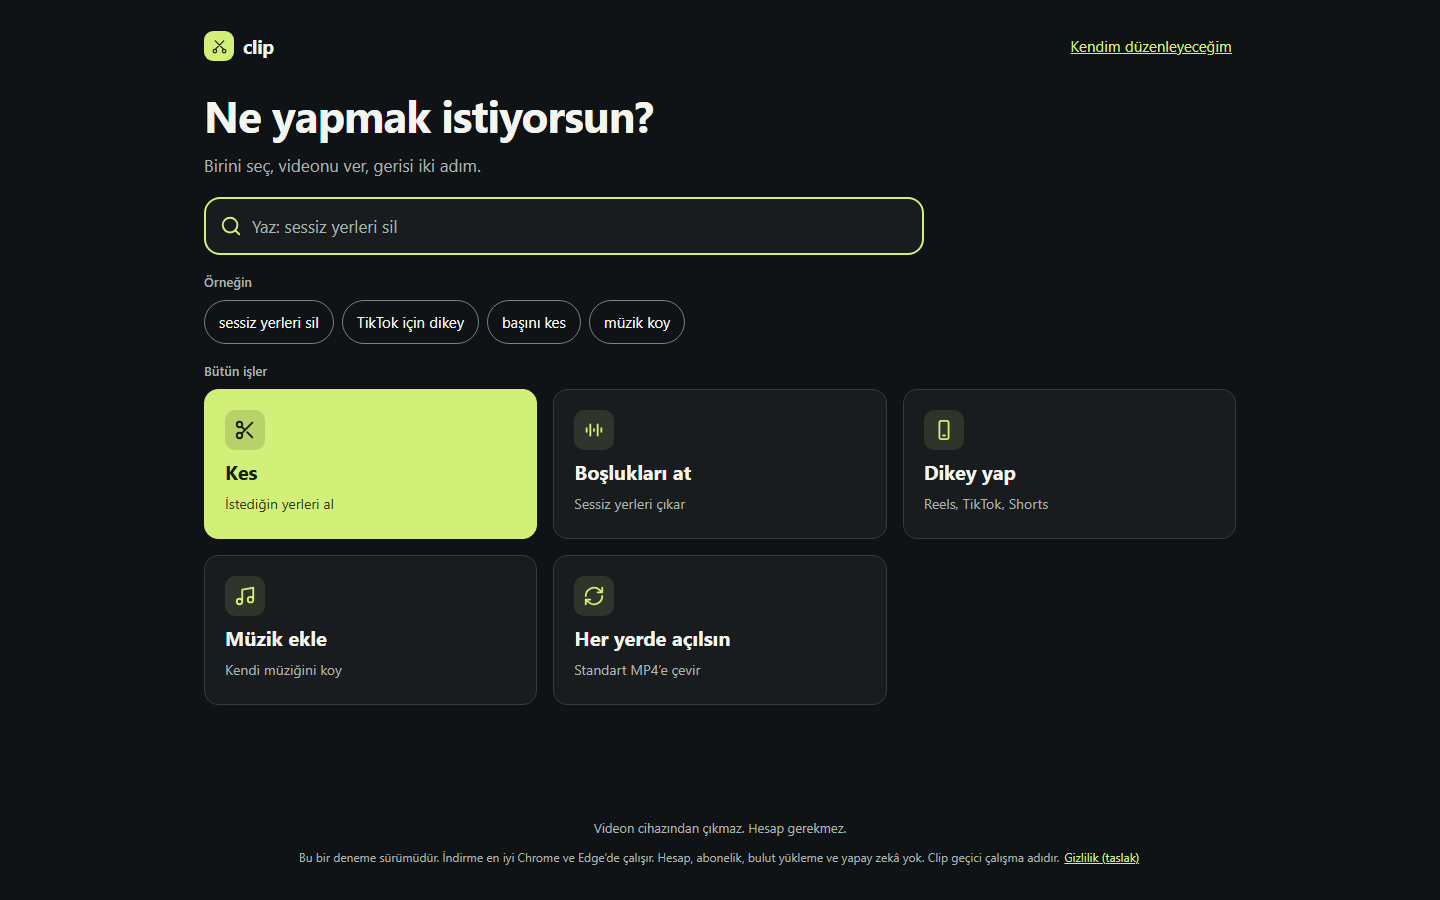
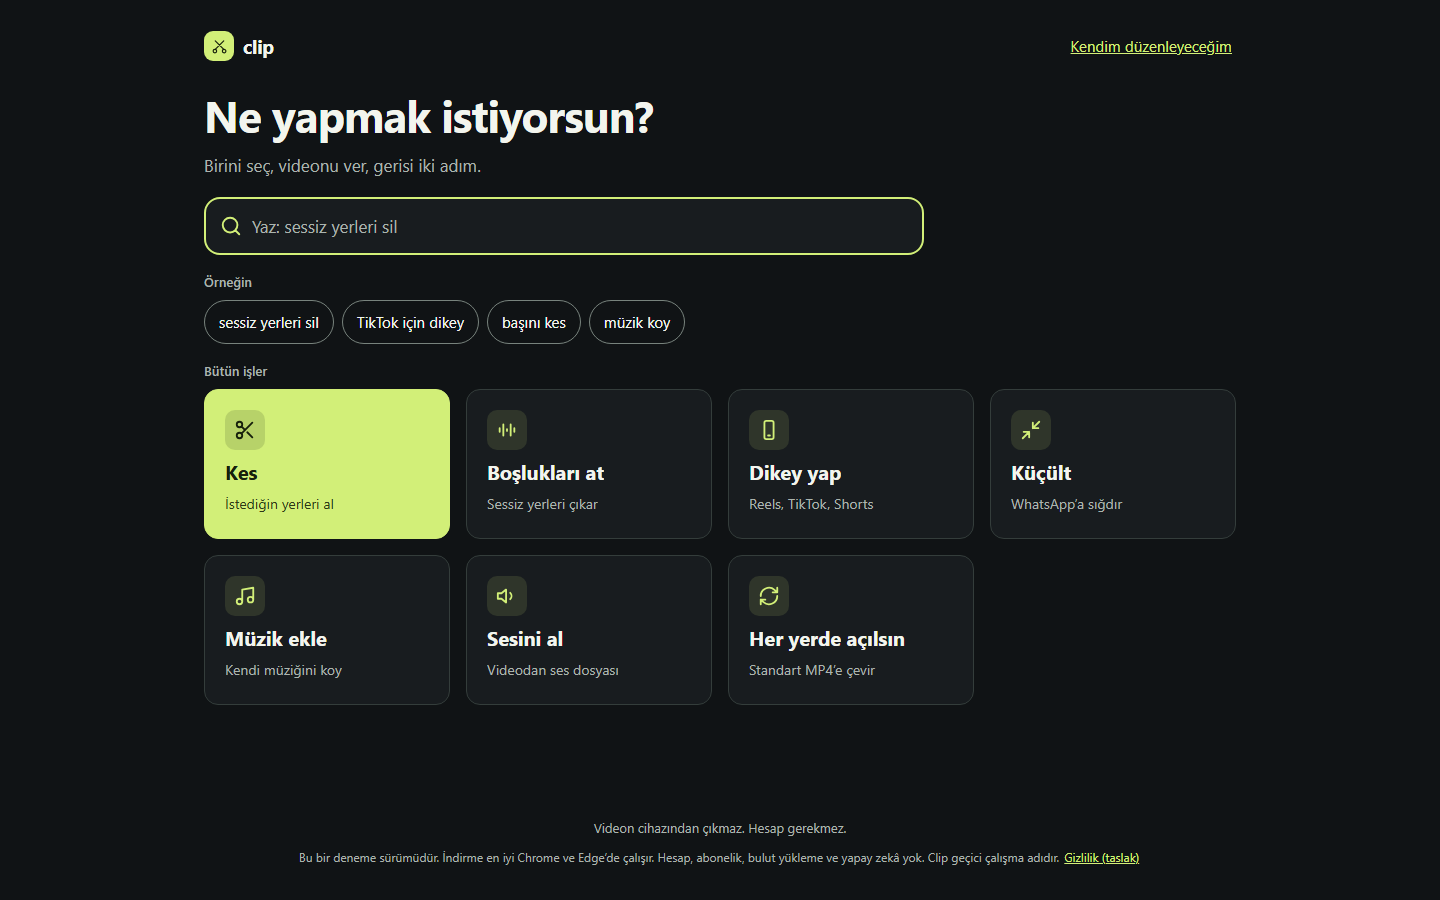
ADR-035 tamam: son derlemeyle tam e2e (243 geçti), matris 3 tarayıcıda 27/27, gerçek kayıtlar 15/15, Pages duman testi 4/4; Küçült ve Sesini al ekran görüntüleri (360/390/1440); destek matrisi, değişiklik kaydı; ağ ve çevrimdışı testlerinde iki yeni sihirbaz sayfası

Changed region(s): [[0.3125, 0.4044, 0.625, 0.7467], [0.625, 0.4356, 0.7812, 0.5911], [0.5, 0.4356, 0.5938, 0.5911]]

diff --git a/web/tests/pages/pages-smoke.spec.ts b/web/tests/pages/pages-smoke.spec.ts
@@ -293,7 +293,7 @@ test('installable and offline under /capcut/: manifest, service worker, offline 
     expect(paths).toContain(stored);
   }
   const allowed = [
-    /^\/capcut\/((editor|gizlilik|gizlilik\/en|yap\/(kes|bosluk|dikey|muzik|cevir))\/)?$/,
+    /^\/capcut\/((editor|gizlilik|gizlilik\/en|yap\/(kes|bosluk|dikey|kucult|muzik|ses|cevir))\/)?$/,
     /^\/capcut\/_next\/static\/.+\.(js|css|png|svg)$/,
     /^\/capcut\/fonts\/caption\/inter-latin(-ext)?-700-normal\.woff2$/,
     /^\/capcut\/icons\/(icon-192|icon-512|maskable-512)\.png$/,

diff --git a/web/tests/e2e/privacy.spec.ts b/web/tests/e2e/privacy.spec.ts
@@ -558,7 +558,7 @@ test.describe('nothing leaves the machine', () => {
       /^\/editor$/,
       /^\/gizlilik(\/en)?$/,
       // The task wizards (ADR-034): their pages, visited above and kept by the service worker.
-      /^\/yap\/(kes|bosluk|dikey|muzik|cevir)$/,
+      /^\/yap\/(kes|bosluk|dikey|kucult|muzik|ses|cevir)$/,
       /^\/_next\/static\//,
       /^\/fonts\/caption\/inter-latin(-ext)?-700-normal\.woff2$/,
       /^\/favicon\.ico$/,

diff --git a/web/tests/e2e/pwa.spec.ts b/web/tests/e2e/pwa.spec.ts
@@ -386,7 +386,7 @@ const APP_PATH = [
   /^\/editor$/,
   /^\/gizlilik(\/en)?$/,
   // The task wizards (ADR-034).
-  /^\/yap\/(kes|bosluk|dikey|muzik|cevir)$/,
+  /^\/yap\/(kes|bosluk|dikey|kucult|muzik|ses|cevir)$/,
   /^\/_next\/static\/[^?]+$/,
   /^\/fonts\/caption\/inter-latin(-ext)?-700-normal\.woff2$/,
   /^\/icons\/(icon-192|icon-512|maskable-512)\.png$/,

diff --git a/docs/adr/ADR-035-target-size-and-audio-only.md b/docs/adr/ADR-035-target-size-and-audio-only.md
@@ -397,22 +397,39 @@ betiğin açtığı sekmeler kapatıldı, site verisi (OPFS, IndexedDB, localSto
 
 ## Testler
 
-> **ARA KAYIT (4 Ekim 2026, oturum kapanırken):** bu bölüm henüz tamamlanmadı.
->
-> **Biten ölçümler (ölçüm kilidi altında, main birleştirildikten sonraki derlemeyle):** matris
-> Chromium 27/27 (son yazılım tabanlarıyla yeniden koşuldu), Chrome 27/27, Edge 27/27 (son iki
-> koşu yazılım tabanı ve ret başlığı değişikliğinden önceki derlemeyle; donanım yolunu etkilemez);
-> gerçek kayıtlar Chrome 15/15; hedef boyut tabloları Chrome, Edge (birleştirmeden önceki derleme,
-> aynı motor kodu) ve Chromium (son tabanlarla); yalnızca ses Chrome/Edge/Chromium; sabit bit hızı
-> ızgaraları; oynatma denetimi; telefon S–Z2 (ilk oturum).
-> Birim testleri: 731/731 (50 dosya), `tsc`, `eslint` temiz, `npm run build` geçti.
-> Yeni e2e dosyaları (`target-size.spec.ts`, `audio-only.spec.ts`): 9/9, ama **yazılım tabanı 0,07'ye
-> çekilmeden önceki** derlemeyle.
->
-> **Bitmeyen / yeniden koşulacak:** tam `npx playwright test` (E2E_PORT=3311) **hiç koşmadı** (kilit
-> sırası beklenirken oturum kapandı) — yeni iki e2e dosyası da son derlemeyle yeniden koşulmalı;
-> Chrome ve Edge matrisi ile `run-real-media --browser=chrome` son derlemeyle yeniden koşulmalı;
-> telefon birleştirmeden sonra koşulmadı (bağlı değildi); CHANGELOG girdisi yazılmadı.
+Hepsi 4 Ekim 2026'da, main (3650b5e) birleştirildikten sonraki **son derlemeyle** ve ölçüm kilidi
+altında koşuldu (aksi yazılmadıkça).
+
+| Koşu | Sonuç |
+|---|---|
+| `npx tsc --noEmit -p .`, `npx eslint .` | temiz |
+| `npx vitest run` | **732 / 732** (50 dosya); bu işin testleri `tests/unit/targetSize.test.ts` (32) ve güncellenen `taskSearch.test.ts` |
+| `npm run build` | geçti (11 sayfa: `/yap/kucult` ve `/yap/ses` dahil) |
+| `npx playwright test` (E2E_PORT=3311, Chromium) | **243 geçti, 2 atlandı** (ekran görüntüsü testleri, eskiden beri), 0 kaldı; 7,8 dk |
+| — içinde bu işin testleri | `target-size.spec.ts` 5, `audio-only.spec.ts` 4, `wizards.spec.ts` Küçült 3 + Sesini al 3, `a11y.spec.ts` ADR-035 bloğu 4 (axe 360 / 390 / 1440: 0 bulgu, yana kayma yok; yalnızca klavye), `home.spec.ts` (yedi kart, arama) |
+| Matris (`run-matrix.mjs`) | Chromium **27/27**, Chrome **27/27**, Edge **27/27** PASS (M20, M20b, M20c, M21, M21b dahil) |
+| Gerçek kayıtlar (`run-real-media.mjs --browser=chrome`) | **15/15** PASS |
+| Pages duman testi (`playwright.pages.config.ts`, `/capcut` altında statik derleme, CI'ın ortam değişkenleriyle) | **4/4**; ilk test artık "Sesini al"ı da kaydedilen `.m4a`'ya kadar sürüyor |
+| Telefon | Bu oturumda bağlı değildi: **koşulmadı.** Yukarıdaki telefon tablosu ilk oturumun (birleştirme ve sihirbazlardan önce, aynı motor) sonuçlarıdır. |
+
+Notlar:
+
+- İlk tam e2e koşusunda 2 test kaldı (`privacy.spec.ts` ve `pwa.spec.ts`: izin verilen sayfa
+  listesinde `/yap/kucult` ve `/yap/ses` yoktu); listeler güncellendi ve tam koşu yeniden yapıldı
+  (243 geçti). Uygulama kodunda bir hata değildi.
+- "Hedefe karşı gerçek boyut" tabloları (Chrome, Edge, Chromium) 3–4 Ekim'de, "kaynağın kendi bit
+  hızı tavandır" kuralı eklenmeden önce ölçüldü. O kayıtların kaynak bit hızı 10–28 Mbit/s: bütün
+  tabanların üstünde, yani kural o planları değiştirmez; tablolar yeniden koşulmadı. Kuralın etkisi
+  sentetik testlerde görülüyor (M20: 360p/540p yerine 720p; e2e: 24 sn'lik sade desen 720p'de).
+- e2e'den (Chromium, yazılım kodlayıcı): 4/12/24 sn × 7 hedef hepsi hedefin altında ve ilk denemede;
+  gürültülü 8 sn klip 6 MB hedefe 2 denemede 5 966 061 bayt; "Küçült → WhatsApp" (24,7 MB'lık
+  gürültülü kaynak): plan 13 163 284, kaydedilen 14 032 615 bayt, 720p, 1 deneme.
+- Ekran görüntüleri: `docs/ux/2026-10-03-home/shots/60-kucult-2-choice`, `61-kucult-3-saved`,
+  `70-ses-2-info`, `71-ses-3-saved` (360, 390, 1440). Küçült görüntüleri 473 KB'lık test videosuyla
+  alındı: üç seçenek de "zaten bunun altında" durumunu gösteriyor; "≈ … MB · 720p" ve "sığmaz"
+  durumları e2e ile doğrulandı, ekran görüntüsü alınmadı.
+- Ölçüm kilidi: kilit başka bir işin elindeyken 60 sn'de bir denendi; bir kez (3 Ekim) açlık
+  yüzünden daha sık yoklandı, bir kez de (4 Ekim) iki koşu arasında 60 sn yerine 22 sn beklendi.
 
 ## Ölçülmeyen / denenmeyen
 
@@ -433,6 +450,7 @@ betiğin açtığı sekmeler kapatıldı, site verisi (OPFS, IndexedDB, localSto
   telefon ve başka makineler için ölçülmedi, ilerleme çubuğu bunu kullanmaz.
 - Altyazılı (yakılan) hedef boyut indirmesi: altyazı her denemede o çözünürlükte yeniden yerleştirilir;
   birim/e2e ile değil yalnızca kod yoluyla kapsandı (ayrı ölçüm yapılmadı).
+- Sihirbazlar gerçek telefonda ve gerçek kullanıcıyla denenmedi.
 
 ## Sonuçlar
 

diff --git a/video-editor-blueprint/CHANGELOG.md b/video-editor-blueprint/CHANGELOG.md
@@ -3,6 +3,22 @@
 > Tarih: 2026-09-19 · Sürüm: 0.1 · Durum: ÖNERİLEN SPESİFİKASYON
 > Bu paketteki ürün kararları başlangıç önerisidir; uygulamanın yapılmış veya test edilmiş olduğunu göstermez.
 
+## Küçült ve Sesini al — 3–4 Ekim 2026 (ADR-035; politika ve şema değişmedi)
+
+Açılış ekranına iki iş daha geldi (yedi kart): **Küçült** ve **Sesini al**. İkisi de cihazda çalışır; video hiçbir yere gönderilmez.
+
+**Küçült (hedef boyuta indirme):** kullanıcı nereye sığacağını seçer — "Paylaşmak için (52 MB altı)", "E-posta (25 MB altı)", "WhatsApp (16 MB altı)" — ve her seçenek sonucunu **kodlamadan önce** söyler ("≈ 15,4 MB · 720p", "Videon zaten bunun altında", "Bu video buna sığmaz: en az 25,5 MB gerekir"). Saf planlayıcı (`web/src/domain/targetSize.ts`) çözünürlüğü (1080 → 720 → 540 → 360), video ve ses bit hızını ölçülen tabanlara göre seçer; kodlayıcıdan sabit bit hızı istenir; dosya kaydedilmeden önce tartılır ve hedefi aşarsa ölçülen oranla yeniden kodlanır (en çok 3 kodlama). Hâlâ büyükse dosya kaydedilir ama **"sığdı" denmez**: "530 KB — hedefin üstünde (hedef 500 KB)…". Kaynağın kendisi sığıyorsa görüntü kopyalanır (hızlı kesim). Sığmayan hedef kaydetme penceresi açılmadan reddedilir ve sığacak en küçük boyut söylenir. Hazır hedefler: paylaşma 52 428 800 bayt (ADR-031 ölçümü), e-posta 25 000 000 (Gmail yardım sayfası), WhatsApp 16 000 000 (Meta'nın WhatsApp medya belgesi); dosya bu uygulamalara gönderilerek **denenmedi**.
+
+**Sesini al:** seçili videonun sesi M4A (MP4 içinde AAC) olarak kaydedilir; görüntü hiç çözülmez; süre örneğine kadar tamdır (ADR-032'nin hizalı AAC yolu, düzenleme listesi duruyor). Sessiz videoda İndir kapalıdır ve sebebi yazar; hiçbir şey yazılmaz. MP3 yok: tarayıcıda MP3 kodlayıcı yok.
+
+**Ölçülen (tek masaüstü, bir telefon; ayrıntı ADR-035):** donanım kodlayıcısı (Chrome/Edge 154) 18 gerçek kayıt indirmesinin 18'inde ilk denemede hedefin altında (bit hızı düşürülenler hedefin %90–97'si); yazılım kodlayıcı (Playwright Chromium) 14 indirmenin 13'ünde hedefin altında, 6'sında 2–3 kodlama gerekti, 1'i üç denemeden sonra hedefin %106'sında kaldı ve öyle bildirildi; telefonda (Galaxy S23, ilk oturum) üç hedef ilk denemede tuttu. Değişken bit hızında donanım kodlayıcısı istenenin 1,07–1,30 katını, telefonda 1,97 katını yazıyor; sabit bit hızında 0,98–1,09 (telefonda 1,00). Ses dosyası Chrome/Edge `<audio>`, ffmpeg ve Windows Media Foundation'da (başsız) çalıyor; süre tam, kayma 0.
+
+**Açık soru (kurucu):** belge 15 "720p / 1080p … dahil" diyor ama daha düşük çözünürlüğü yasaklamıyor; Küçült bugün 540p/360p'ye inebiliyor (tek yerden kapatılır: `DEFAULT_MIN_SHORT_EDGE`). Belge 15 değişmedi.
+
+**Testler:** birim 732/732; e2e (Chromium) 243 geçti, 2 atlandı — hedef boyut, yalnızca ses, iki sihirbaz, erişilebilirlik (axe 360/390/1440: 0 bulgu) ve klavye dahil; matris Chromium/Chrome/Edge 27/27 (yeni satırlar M20, M20b, M20c, M21, M21b); gerçek kayıtlar Chrome 15/15; Pages duman testi 4/4. Telefon bu oturumda bağlı değildi: sihirbazlar telefonda koşulmadı.
+
+Mevcut kullanıcı haklarına etkisi: yalnızca genişleme. Olağan indirme (hedefsiz) aynı bit hızı, aynı mod ve aynı hızlı kesim kurallarıyla çalışır; sınırlar, fiyatlar ve şema değişmedi. Ölçülmeyen: iOS/Safari/macOS, WhatsApp ve e-posta uygulamalarının kendisi, başka GPU'lar, 60 dakikalık hedef boyut indirmesi, birleştirmeden sonra telefon.
+
 ## Görev öncelikli açılış ekranı — 3 Ekim 2026 (ADR-034; politika ve şema değişmedi)
 
 Kurucu kararı (taslak A + C): editörle açılan ekran "bir çocuğun bile istediğini yapabileceği" kadar kolay değildi.
